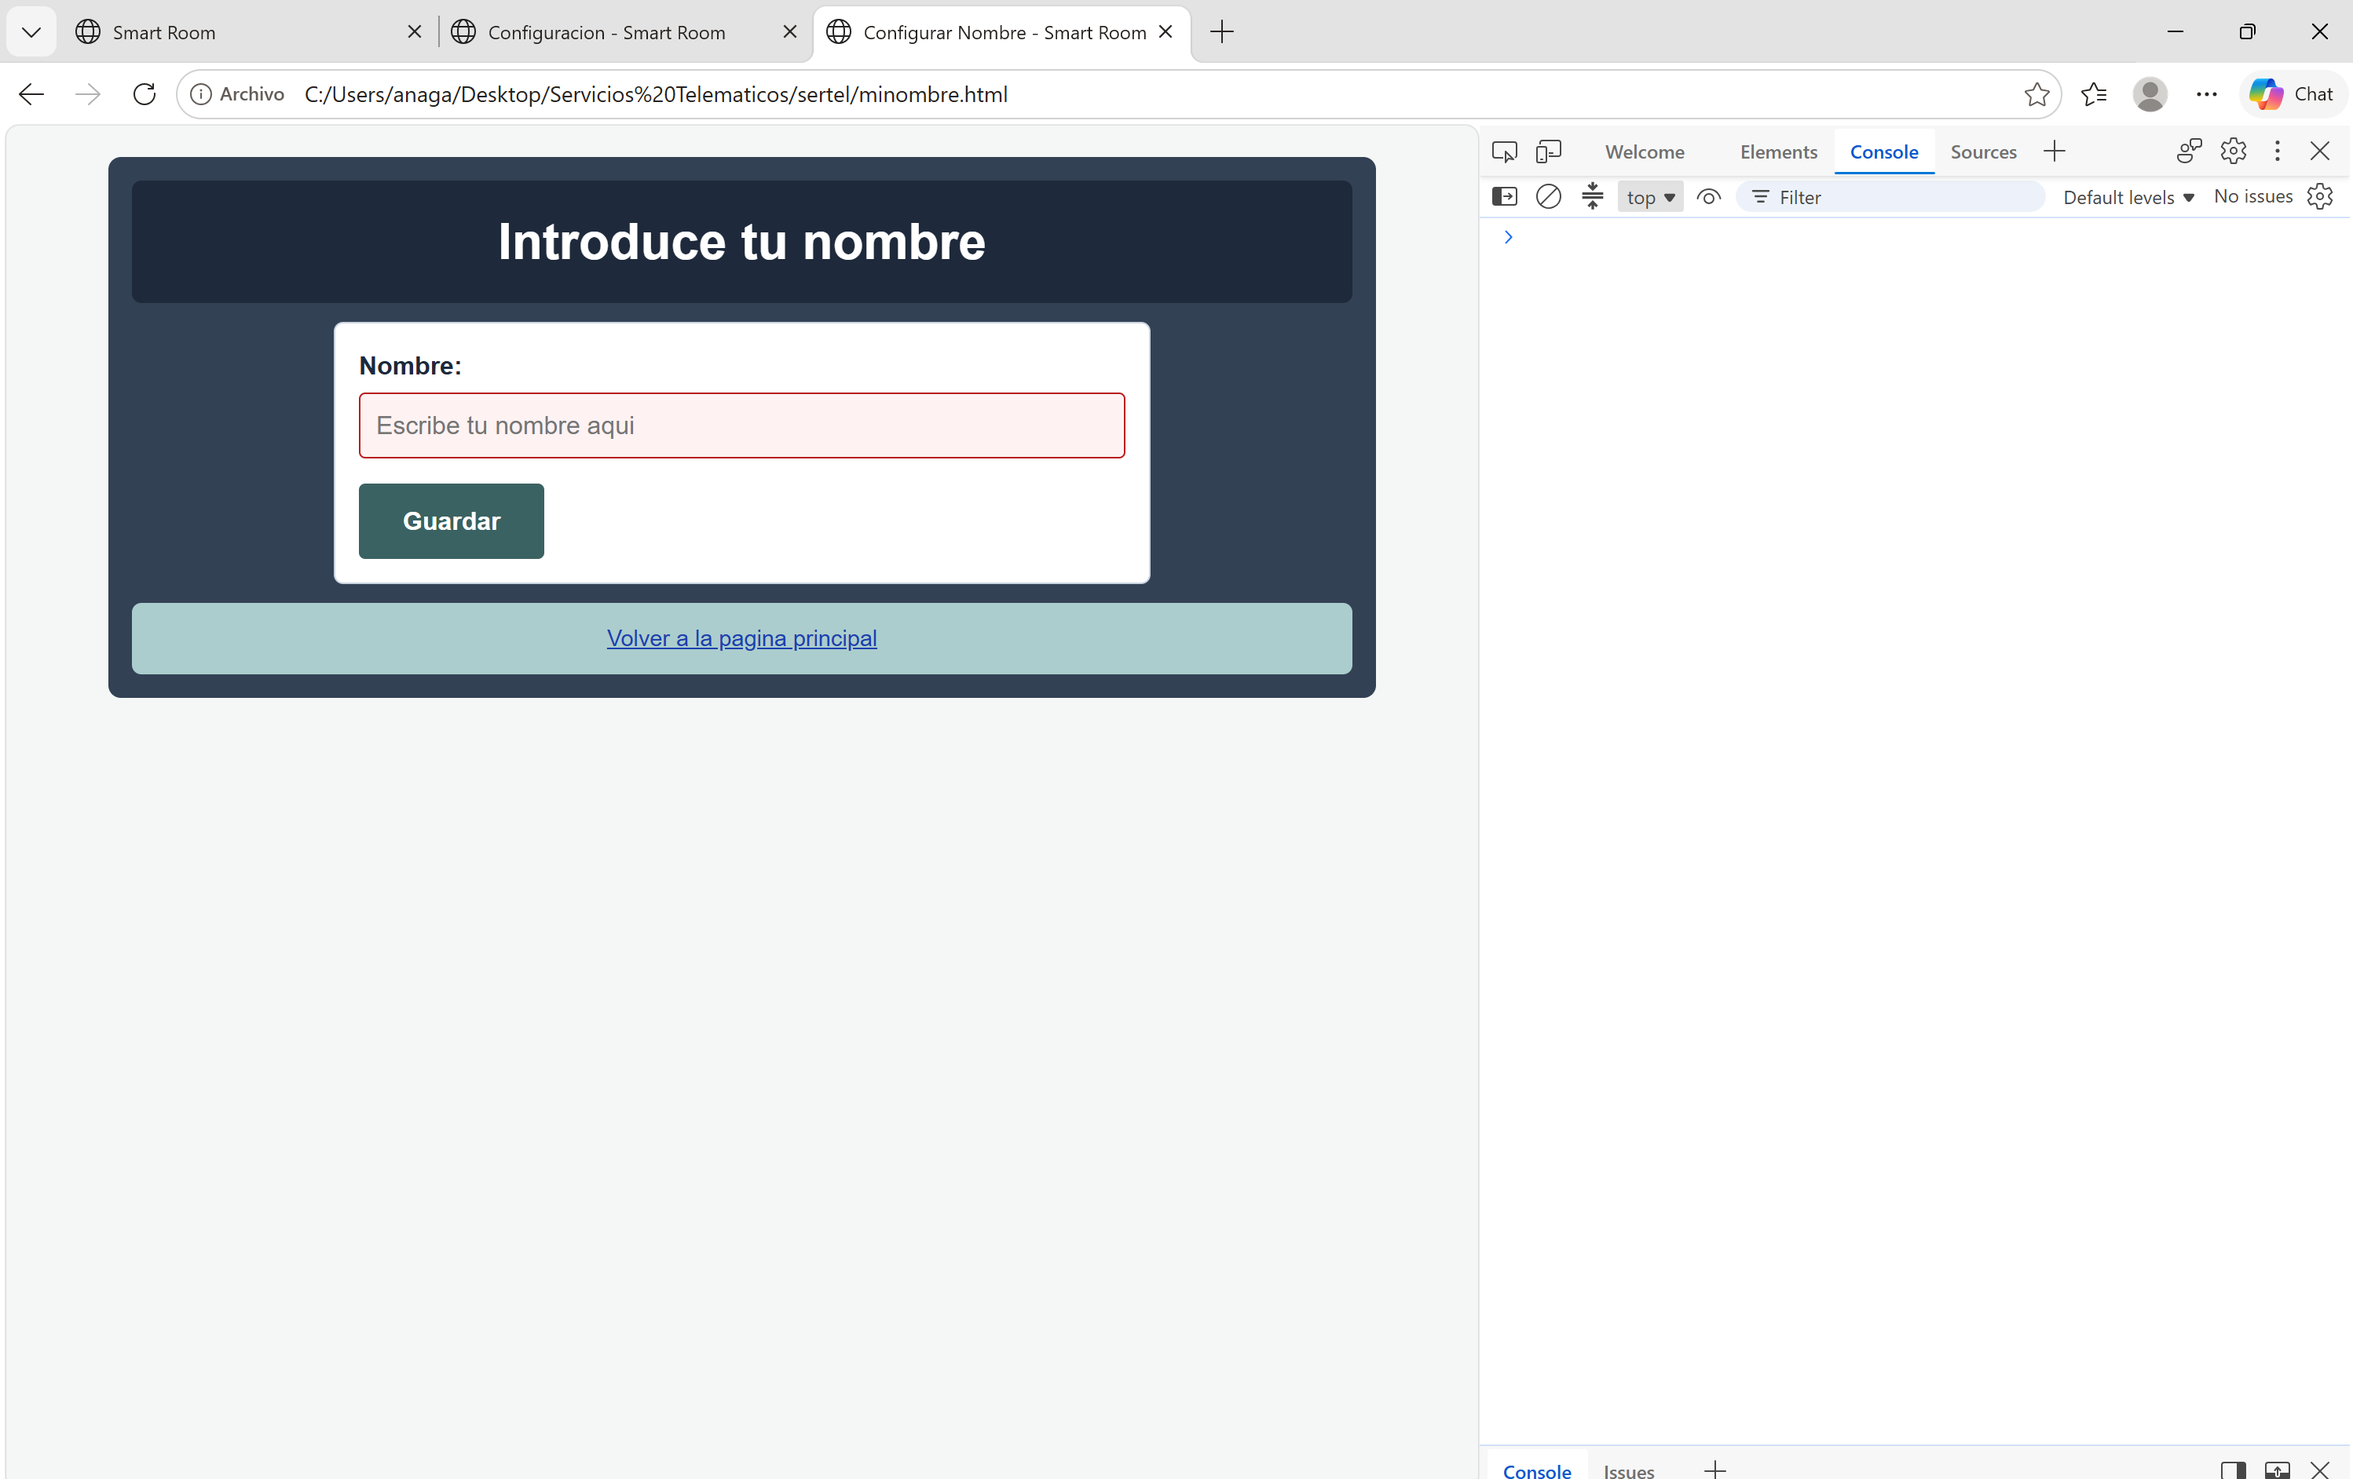
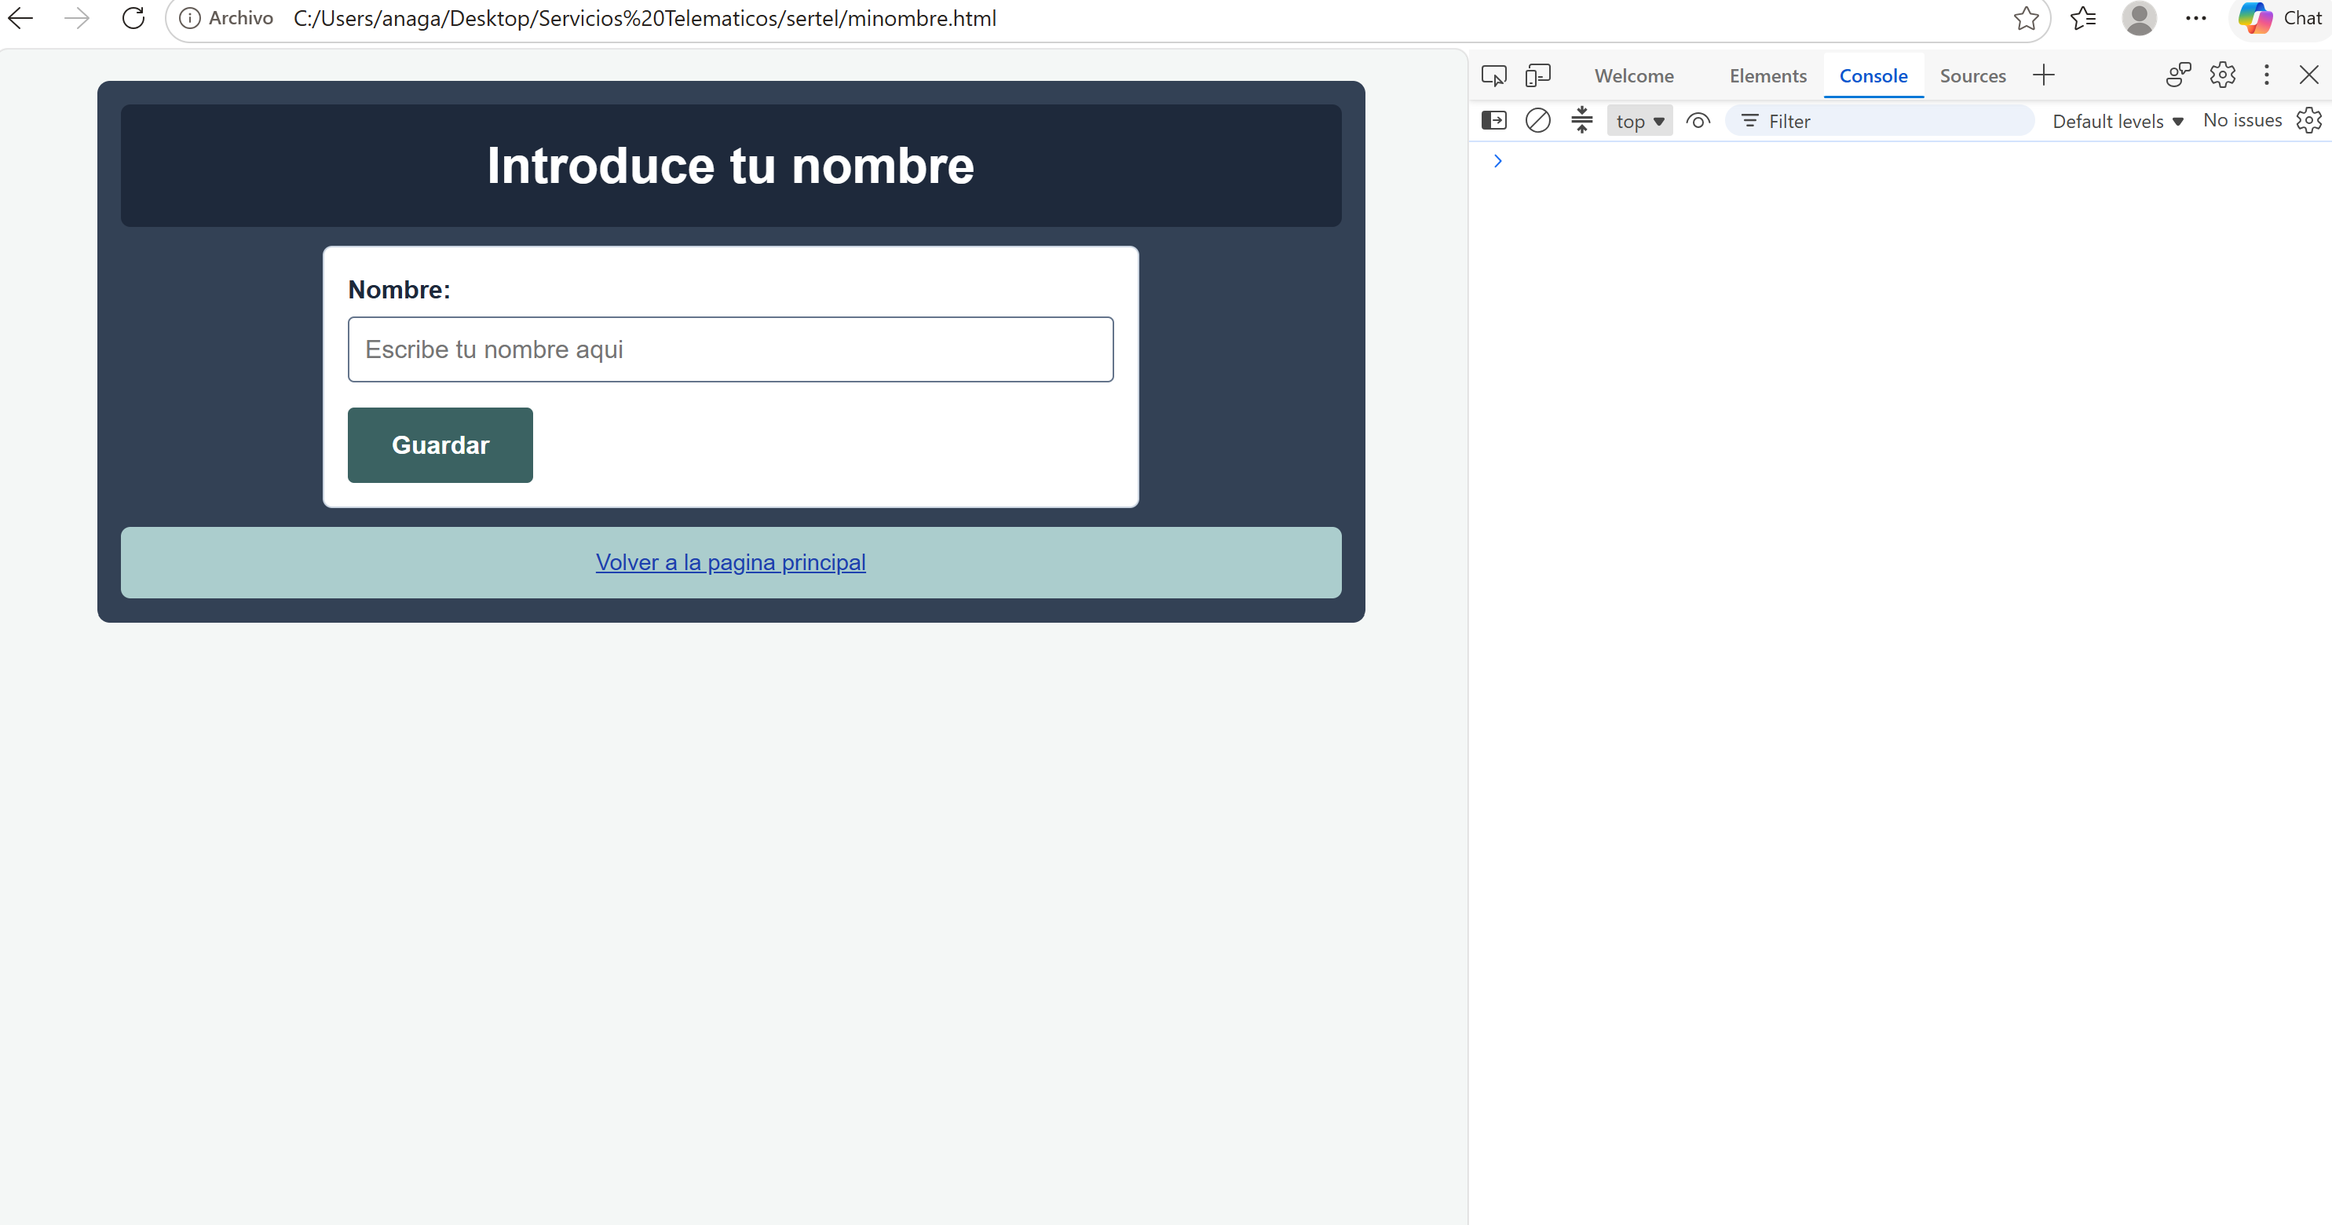
Memoria revisada y capturas

Changed region(s): [[0.0, 0.0, 1.0, 0.5231], [0.6195, 0.9846, 0.7125, 1.0], [0.9293, 0.9846, 0.9912, 1.0]]

diff --git a/memoria.md b/memoria.md
@@ -1,46 +1,150 @@
-# Memoria de Prácticas: Desarrollo Web (HTML5 y CSS3)
+# Memoria de Prácticas: Desarrollo Web (HTML5 y CSS3)
 
-## Apartado 2: Validación de la Temperatura
-Para garantizar que la temperatura máxima introducida en el formulario sea mayor o igual que la mínima, se ha utilizado la API de validación nativa de HTML5 mediante JavaScript (setCustomValidity()).
+Práctica P1 – Smart Room · Servicios Telemáticos · Universidad de Alcalá
 
-Se ha implementado un script que, mediante el evento input, lee en tiempo real los valores de los campos de temperatura. Si el valor máximo es inferior al mínimo, se ejecuta inputMax.setCustomValidity("La temperatura máxima debe ser mayor o igual a la mínima"), bloqueando el envío del formulario y mostrando un aviso nativo del navegador. Si los valores son correctos, el mensaje se limpia y se calcula la diferencia en la etiqueta <output>.
+---
 
-*Nota:* Esta es una validación del lado del cliente orientada a mejorar la experiencia de usuario (UX). Por seguridad, siempre debe complementarse con una validación en el lado del servidor.
+## Apartado 2: Validación de la temperatura
 
-## Apartado 4: Control de Caché (Cabeceras HTTP)
-Se ha procedido a analizar la gestión de la caché en los recursos de la web estudiando las cabeceras HTTP de respuesta:
+El enunciado pide comprobar que la temperatura máxima sea mayor o igual que la mínima combinando restricciones HTML con una comprobación en JavaScript. La solución tiene dos niveles que se complementan.
 
-- **no-cache**: Esta directiva permite que el navegador almacene el recurso en su memoria caché local, pero le obliga a validar siempre con el servidor (mediante validadores como ETag o Last-Modified) si el archivo ha sufrido modificaciones. Si no ha cambiado, usa el guardado; si cambió, lo descarga de nuevo.
-- **no-store**: Es la directiva más restrictiva. Prohíbe totalmente al navegador guardar el recurso en el disco duro o en caché bajo ninguna circunstancia. Es útil para páginas que manejan datos confidenciales o bancarios.
+**1. Restricciones HTML (nivel declarativo).** Los dos campos de alerta son `<input type="number">` con los atributos `min="-20"`, `max="45"` y `step="1"`. Con ellos, el navegador comprueba por sí solo, al enviar el formulario, que el valor sea numérico, esté entre −20 °C y 45 °C y sea un número entero. Estas restricciones no pueden comparar un campo con otro, y por eso hace falta el segundo nivel.
 
-**Justificación para recursos estáticos versionados:** Para archivos como hojas de estilo (.css), imágenes o scripts, usar 
-o-cache es menos eficiente. Lo ideal es utilizar un tiempo de caché largo (max-age) y, cuando se actualiza el archivo, cambiarle el nombre (ej. estilo_v2.css). Esto se conoce como "versionado de recursos" y evita tener que consultar al servidor constantemente si el archivo ha cambiado.
+**2. Comprobación en JavaScript (nivel dinámico).** Se ha implementado un script que escucha el evento `input` de ambos campos. En cada cambio lee los dos valores y, si ambos son números:
 
-## Apartado 6: Actualización mediante eventos SSE (Opcional)
-Para lograr que los datos de los sensores de la habitación se actualicen automáticamente sin que el cliente tenga que recargar la página, se propone una arquitectura basada en **Server-Sent Events (SSE)**. 
+- Si el máximo es inferior al mínimo, se ejecuta `inputMax.setCustomValidity("La Tº maxima debe ser mayor o igual a la minima.")` y el elemento `<output>` muestra «Error». Con un mensaje de validez personalizado, el campo pasa a ser inválido: el navegador bloquea el envío del formulario y muestra ese texto como aviso nativo, y la hoja de estilos marca el campo en rojo.
+- Si los valores son correctos, el mensaje se limpia con `setCustomValidity("")` y el `<output>` muestra la diferencia entre ambas temperaturas (por ejemplo, «15 grados C»).
 
-El servidor expondría un endpoint (por ejemplo, /api/sensores/stream) que devuelve cabeceras HTTP específicas (Content-Type: text/event-stream). Por su parte, el navegador web usaría el objeto JavaScript EventSource para conectarse a ese endpoint y mantener una conexión unidireccional abierta de forma permanente. Cada vez que el servidor detecta una nueva medida en un sensor, empuja un evento de texto al cliente y el JavaScript actualiza dinámicamente el DOM (la tabla de sensores) mediante manejadores como onmessage.
+*Nota:* se trata de una validación en el lado del cliente, orientada a mejorar la experiencia de usuario. Por seguridad, siempre debe complementarse con una validación en el servidor.
+
+---
+
+## Apartado 4: Control de caché (cabeceras HTTP)
+
+### 4.1 Diferencia entre `no-cache` y `no-store`
+
+- **`no-cache`**: el navegador **puede almacenar** el recurso en su caché local, pero está obligado a validarlo con el servidor antes de usarlo (mediante validadores como `ETag` o `Last-Modified`). Si el archivo no ha cambiado, el servidor responde `304 Not Modified` sin enviar el contenido y el navegador usa su copia; si ha cambiado, responde `200` con el contenido nuevo.
+- **`no-store`**: es la directiva más restrictiva. Prohíbe al navegador y a cualquier caché intermedia **guardar** el recurso en ningún momento. Es útil para páginas que manejan datos confidenciales (por ejemplo, información bancaria).
+
+En resumen: `no-cache` significa «guárdalo, pero pregunta antes de usarlo», y `no-store` significa «no lo guardes».
+
+### 4.2 Política elegida para el documento HTML principal
+
+Para `index.html` se elige `Cache-Control: no-cache`. Es el punto de entrada de la aplicación y su contenido cambia cada vez que se actualiza la web, además de ser el documento que enlaza la hoja de estilos y los scripts. Si se almacenara durante mucho tiempo, los usuarios seguirían viendo una versión antigua. Con `no-cache` el navegador comprueba en cada visita si ha cambiado y, si no es así, recibe una respuesta `304` muy ligera. No es necesario `no-store`, porque la página no contiene información confidencial.
+
+### 4.3 Configuración en Apache
+
+> **PENDIENTE:** aplicar esta configuración en el servidor del Apartado 7 y comprobar que funciona antes de dar este apartado por cerrado.
+
+Se activa el módulo de cabeceras con `sudo a2enmod headers` y se añade lo siguiente al fichero del host virtual:
+
+```apache
+<Directory /var/www/iroom>
+    Require all granted
+    <FilesMatch "\.html$">
+        Header set Cache-Control "no-cache"
+    </FilesMatch>
+</Directory>
+```
+
+Después se recarga la configuración con `sudo service apache2 reload`.
+
+### 4.4 Cabeceras observadas y comparación antes y después
+
+> **PENDIENTE:** rellenar con lo observado en la pestaña **Red** de las herramientas de desarrollo del navegador, antes y después de aplicar la configuración. Incluir las capturas en la carpeta `capturas`.
+
+| Situación | Cabeceras de respuesta observadas | Código HTTP | Comportamiento observado |
+| :--- | :--- | :--- | :--- |
+| Antes · recarga normal | *(completar)* | *(completar)* | *(completar)* |
+| Antes · recarga forzada | *(completar)* | *(completar)* | *(completar)* |
+| Después · recarga normal | *(completar)* | *(completar)* | *(completar)* |
+| Después · recarga forzada | *(completar)* | *(completar)* | *(completar)* |
+
+### 4.5 Recursos estáticos versionados
+
+Para archivos como hojas de estilo (`.css`), scripts o imágenes, usar `no-cache` es menos eficiente: obliga a consultar al servidor en cada uso, aunque casi nunca cambien. Lo ideal es darles una caducidad larga con `max-age` y, cuando el archivo se actualiza, **cambiarle el nombre** (por ejemplo, `iroom.v2.css`), de modo que el navegador lo trate como un recurso nuevo. Esto se conoce como versionado de recursos y permite una política como `Cache-Control: public, max-age=31536000, immutable`, que evita preguntar al servidor.
+
+En esta práctica los archivos no llevan versión en el nombre (`iroom.css`), por lo que una caducidad muy larga haría que los visitantes siguieran viendo estilos antiguos tras una actualización. Mientras no se versionen, conviene una caducidad corta o usar `no-cache`.
+
+---
+
+## Apartado 6: Actualización mediante eventos enviados por el servidor (SSE) — Opcional
+
+Para que los datos de los sensores se actualicen sin que el usuario recargue la página, se propone una arquitectura basada en **Server-Sent Events (SSE)**: el navegador abre una única conexión HTTP con el servidor y este va enviando por ella los datos nuevos. La comunicación es unidireccional (del servidor al cliente), que es justo lo que necesita un panel de sensores. Frente al *polling*, evita peticiones repetidas que a menudo no traen nada nuevo, y frente a WebSocket es más sencillo porque funciona sobre HTTP normal y el navegador se reconecta solo.
+
+**Arquitectura.** El servidor expone un recurso (por ejemplo, `/api/sensores/stream`), atendido por un script del servidor (PHP, Python, Node...), porque un servidor de archivos estáticos no puede mantener la conexión abierta ni generar eventos. El script responde con las cabeceras:
+
+```
+Content-Type: text/event-stream
+Cache-Control: no-cache
+Connection: keep-alive
+```
+
+**Formato de los mensajes `text/event-stream`.** Es texto plano. Cada mensaje está formado por líneas del tipo `campo: valor` y termina con una **línea en blanco**. Los campos habituales son `data` (el contenido, obligatorio), `event` (nombre del evento; si no se indica, es `message`), `id` (identificador, que el navegador reenvía al reconectar) y `retry` (milisegundos de espera para reconectar). Las líneas que empiezan por `:` son comentarios.
+
+```
+event: sensores
+id: 42
+data: {"temperatura": 22.5, "humedad": 41}
+
+```
+
+**Conexión desde el navegador con `EventSource`:**
+
+```javascript
+const fuente = new EventSource("/api/sensores/stream");
+
+fuente.addEventListener("sensores", (evento) => {
+    const datos = JSON.parse(evento.data);
+    document.getElementById("valor-temperatura").textContent = datos.temperatura + "ºC";
+});
+
+fuente.onerror = () => {
+    console.log("Conexión perdida; el navegador reintentará automáticamente.");
+};
+```
+
+**Procedimiento de actualización de la interfaz.** Cada vez que el servidor detecta una medida nueva, escribe un mensaje en la conexión abierta. El navegador lo recibe, dispara el manejador del evento y el código JavaScript modifica el DOM: en este caso, el contenido de la celda de la tabla de sensores, a la que se le asignaría un `id` (por ejemplo, `valor-temperatura`). Si la conexión se cae, `EventSource` reintenta de forma automática y envía la cabecera `Last-Event-ID` para que el servidor pueda retomar desde el último evento recibido.
+
+---
 
 ## Apartado 9: Validación y calidad del código
-Se han utilizado las herramientas oficiales del W3C para validar la sintaxis del código de la práctica. A continuación, se detalla la tabla con las herramientas utilizadas, los problemas encontrados y las correcciones aplicadas:
 
-| Herramienta | Archivo | Problema / Advertencia identificada | Solución aplicada |
+Se han utilizado las herramientas oficiales del W3C para validar el HTML (W3C Nu Html Checker, en `validator.w3.org`) y la hoja de estilos (W3C CSS Validation Service, en `jigsaw.w3.org/css-validator`), y la consola de las herramientas de desarrollo del navegador para comprobar que no aparecen errores. La siguiente tabla recoge las herramientas utilizadas, los problemas identificados y las correcciones aplicadas.
+
+| Herramienta | Archivo | Resultado / problema identificado | Corrección aplicada |
 | :--- | :--- | :--- | :--- |
-| **W3C Nu Html Checker** | Index.html | *Warning: Section lacks heading.* El estándar recomienda incluir elementos h2-h6 para identificar el contenido de las etiquetas <section>. | Se ha añadido un encabezado <h2> dentro de las secciones de "Datos de la habitación" y "Datos de los sensores" para aportar una jerarquía coherente. |
-| **W3C Nu Html Checker** | config.html | *Error: The heading h3 follows the heading h1, skipping 1 heading level.* Salto en la jerarquía de encabezados. | Se han reemplazado las sub-secciones que usaban <h3> por <h2> para mantener la progresión semántica lógica que requiere HTML5 tras el <h1> principal. |
-| **W3C Nu Html Checker** | \minombre.html\ | *Warning: This document has heading elements but none of them has a computed heading level of 1.* Falta el encabezado principal de la pagina. | Se ha cambiado la etiqueta \<h2>\ por un \<h1>\ para cumplir con las reglas de accesibilidad que exigen un titulo principal por documento. |
+| **W3C Nu Html Checker** | index.html | *Warning: Section lacks heading.* El estándar recomienda identificar con un encabezado `h2`–`h6` el contenido de cada `<section>`. | Se añadió un `<h2>` en las secciones «Datos de la habitación» y «Datos de los sensores». |
+| **W3C Nu Html Checker** | index.html (versión final) | Sin errores ni avisos. | — |
+| **W3C Nu Html Checker** | config.html (versión final) | Sin errores ni avisos. | — |
+| **W3C Nu Html Checker** | minombre.html (versión final) | Sin errores ni avisos. | — |
+| **W3C CSS Validation Service** | css/iroom.css (versión final) | Sin errores (CSS nivel 3 + SVG). | — |
+| **Consola de Microsoft Edge (DevTools)** | index.html | Al abrir la página como archivo local aparecía el mensaje *«Unsafe attempt to load URL file:///... from frame with URL file:///...»*. | El mensaje desaparece al abrir la página en una ventana InPrivate, sin extensiones, por lo que no procede del código de la práctica. Con ese método, las consolas de las tres páginas aparecen sin errores («No issues»). |
 
-### Capturas de Validacion
+### Capturas de validación
 
-**Index.html (Advertencia original):**
-![Warning Index](capturas/val_index_warning.png)
+**index.html (aviso original):**
+![Aviso en index.html](capturas/val_index_warning.png)
 
-**config.html (Validacion superada):**
-![OK Config](capturas/val_config_ok.png)
+**index.html (validación final):**
+![Validación de index.html](capturas/validacion_index_html.png)
 
-**minombre.html (Advertencia original):**
-![Warning Minombre](capturas/val_minombre_warning.png)
+**config.html (validación final):**
+![Validación de config.html](capturas/validacion_config_html.png)
 
-**minombre.html (Validacion superada tras corregir el h1):**
-![OK Minombre](capturas/val_minombre_ok.png)
+**minombre.html (validación final):**
+![Validación de minombre.html](capturas/validacion_minombre_html.png)
 
+**iroom.css (validación final):**
+![Validación de iroom.css](capturas/validacion_css.png)
+
+### Capturas de la consola del navegador
+
+**index.html:**
+![Consola de index.html](capturas/consola_index.png)
+
+**config.html:**
+![Consola de config.html](capturas/consola_config.png)
+
+**minombre.html:**
+![Consola de minombre.html](capturas/consola_minombre.png)
